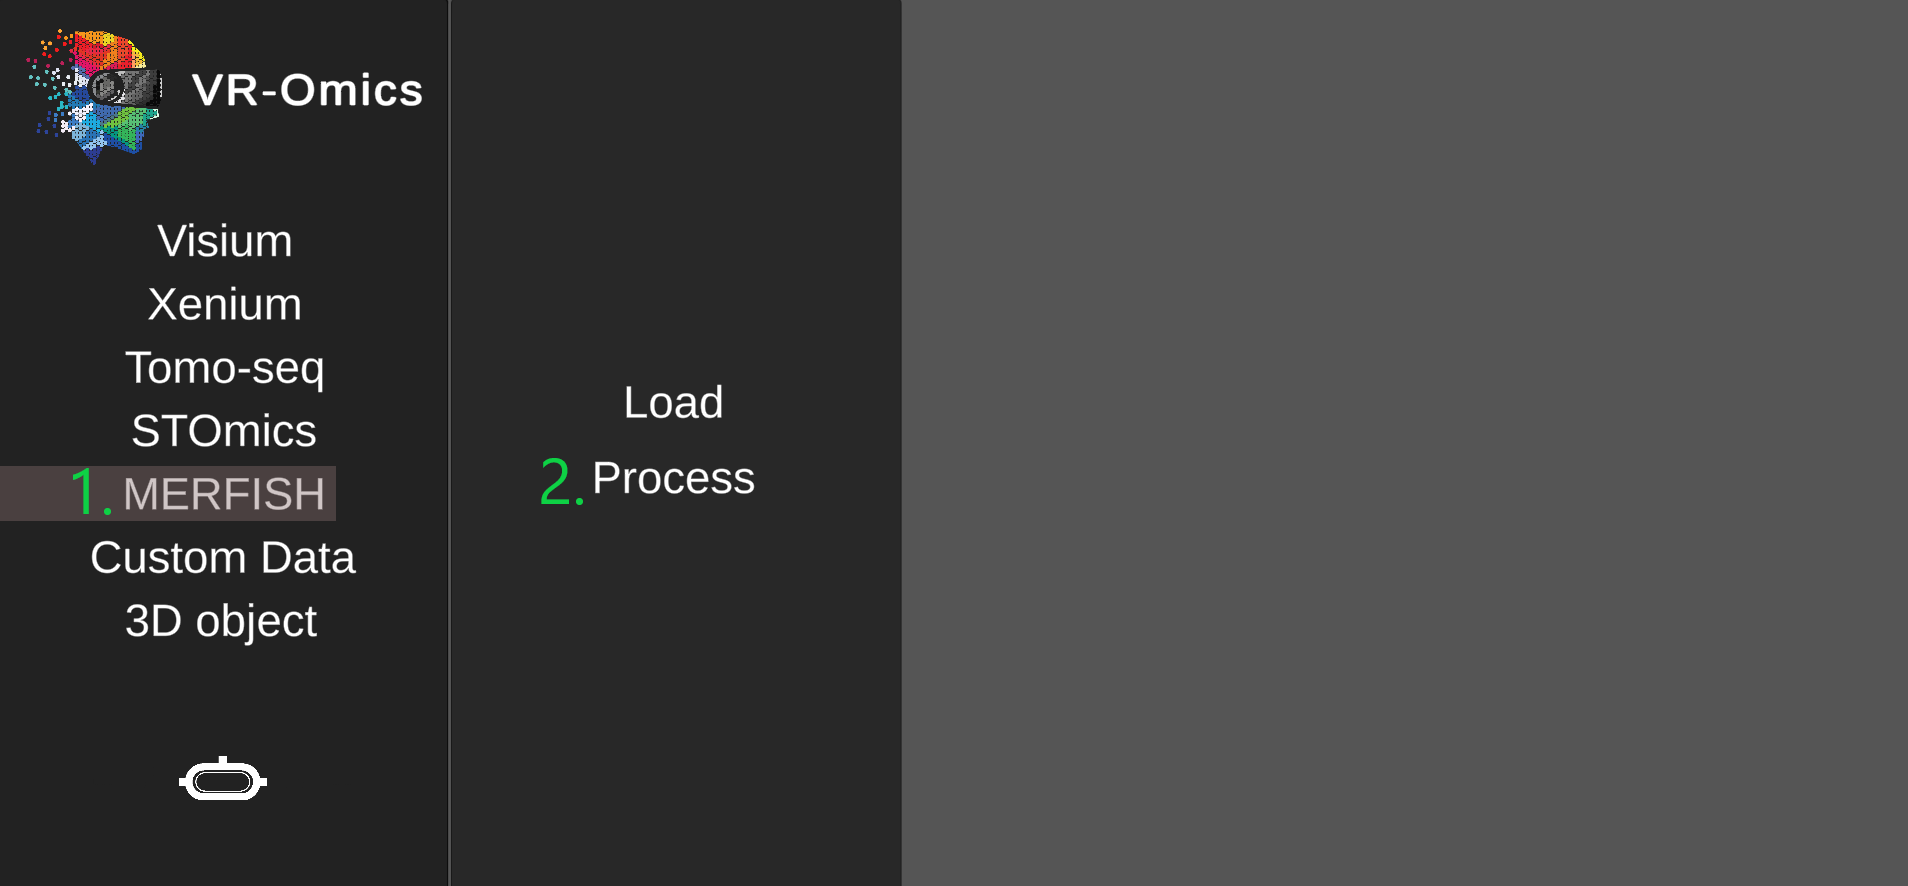
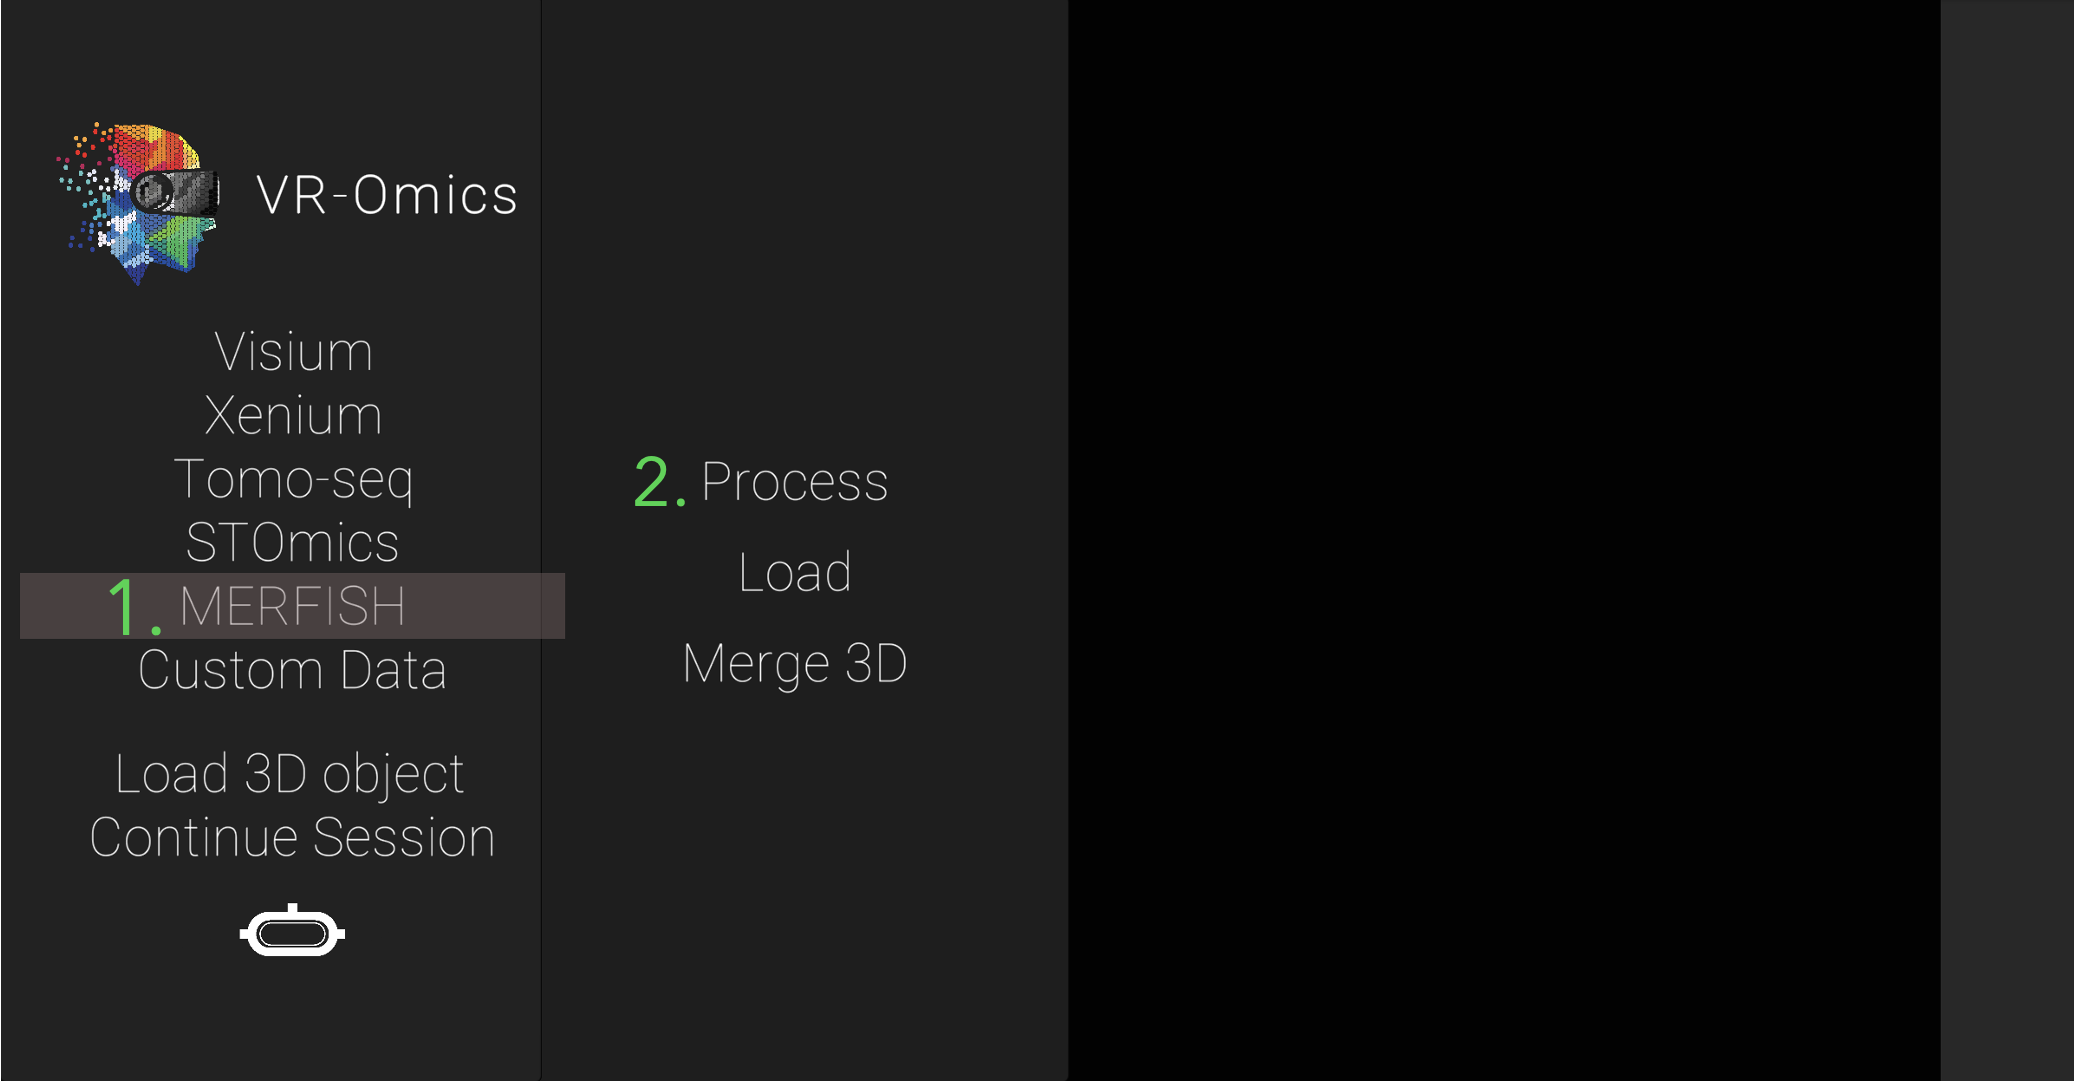
Concat/merge3D updated
Documentation descriptions about concat and merge 3D, and all new interfaces in Visium and Merfish steps are updated

diff --git a/pages/vromics.html b/pages/vromics.html
@@ -400,100 +400,7 @@
                                 </tbody>
                             </table> 
                         </details>
-                        <!-- Join/Concat data in 2D space -->
-                        <details class="details sub"><summary><strong>Concatenate multiple Visium slides in 2D space</strong></summary><a id="visium_load_concat"></a>
-                            <h2></h2>
-                            <table class="table table-striped">
-                                <tbody>
-                                    <tr>
-                                        <th scope="row">1</th>
-                                        <td>Select the Concat menu</td>
-                                        <td>
-                                            <ol>
-                                                <li>From the main menu select <span class="badge badge-pill badge-info">Visium</span></li>
-                                                <li>Select <span class="badge badge-pill badge-info">Concat</span></li> 
-                                            </ol>
-                                        </td>
-                                        <td>
-                                            <figure>
-                                                <img src="../assets/imgs/Documentation/Visium_and_C18/vis_options_concat.png" style="max-width: 100%;">
-                                            </figure>  
-                                        </td>
-                                    </tr>
-                                    <tr>
-                                        <th scope="row">2</th>
-                                        <td>Select the Visium samples to merge</td>
-                                        <td>
-                                            <ol>
-                                                <li>Click <span class="badge badge-pill badge-info">Browse</span></li>
-                                                <li>From the Explorer find the main folders of the datasets to merge.</li> 
-                                                <li>Click <span class="badge badge-pill badge-info">Load</span> to load the samples.</li>
-                                            </ol>
-                                        </td>
-                                        <td>
-                                            <figure>
-                                                <img src="../assets/imgs/Documentation/Visium_and_C18/vis_concat_select.png" style="max-width: 100%;">
-                                            </figure>  
-                                        </td>
-                                    </tr>
-                                    <tr>
-                                        <th scope="row">3</th>
-                                        <td>Check the selected samples</td>
-                                        <td>
-                                            <ol>
-                                                <li>The selected samples will be shown</li>
-                                                <li>Expand the tissue image or delete a sample using the <span class="badge badge-pill badge-info">🗑</span> button.</li> 
-                                                <li>Click <span class="badge badge-pill badge-info">Concat</span> to confirm the selection.</li>
-                                            </ol>
-                                        </td>
-                                        <td>
-                                            <figure>
-                                                <img src="../assets/imgs/Documentation/Visium_and_C18/vis_concat_containers.png" style="max-width: 100%;">
-                                                <figcaption>The order of the samples is not important for the following steps.</figcaption>
-                                            </figure>  
-                                        </td>
-                                    </tr>
-                                    <tr>
-                                        <th scope="row">3</th>
-                                        <td>Arrange the slides</td>
-                                        <td>
-                                            <ol>
-                                                <li>Arrange the slides by using the mouse.</li>
-                                                <li>Drag a sample by using left click to move the sample into position</li>
-                                                <li>Hold down the left mouse button and click the right mouse button once to rotate a sample by 90 degrees.</li>
-                                                <li>Click <span class="badge badge-pill badge-info">Concat</span> to confirm.</li>
-                                            </ol>
-                                        </td>
-                                        <td>
-                                            <figure>
-                                                <img src="../assets/imgs/Documentation/Visium_and_C18/vis_concat_arranged.png" style="max-width: 100%;">
-                                                <figcaption>Ensure that no samples overlap with each other.</figcaption>
-                                            </figure>  
-                                        </td>
-                                    </tr>
-                                    <tr>
-                                        <th scope="row">4</th>
-                                        <td>Processing the joint dataset</td>
-                                        <td>
-                                            <ol>
-                                                <li>(Optional) Enter filter parameters to filter the joint dataset or leave fields blank.</li>
-                                                <li>(Optional) Select T-SNE and UMAP analysis</li>
-                                                <li>(Optional) Select SVG analysis to run spatial analysis.</li>
-                                                <li>Click <span class="badge badge-pill badge-info">Process</span> to confirm.</li>
-                                            </ol>
-                                        </td>
-                                        <td>
-                                            <figure>
-                                                <img src="../assets/imgs/Documentation/Visium_and_C18/vis_concat_filter.png" style="max-width: 100%;">
-                                                <figcaption>Click here for more information on <a href="#filter">filter parameters.</a> Selecting T-SNE and UMAP as well as SVG analysis increases processing time of the sample.</figcaption>
-                                            </figure>  
-                                        </td>
-                                    </tr>
-                                    
-                                </tbody>
-                            </table>
-                            <br>
-                        </details>
+                        
                         <!-- Load multiple slides in 3D space -->
                         <details class="details sub"><summary><strong>Loading multiple Visium slides in 3D</strong></summary><a id="visium_load_multiple"></a>
                             <div class="alert alert-primary alert-dismissible fade show" role="alert">
@@ -675,6 +582,102 @@
                             </tbody>
                         </table>
                     </details>
+
+                    <!-- Concat section collapsible-->
+                    <details class="details sub"><summary><strong>Concat</strong></summary><a id="visium_concat"></a>
+                        <table class="table table-striped">
+                            <tbody>
+                                <tr>
+                                    <th scope="row">1</th>
+                                    <td>Navigate to the Visium concat menu</td>
+                                    <td>
+                                        <ol>
+                                            <li>From the main menu select <span class="badge badge-pill badge-info">Visium</span></li>
+                                            <li>Select <span class="badge badge-pill badge-info">Concat</span></li> 
+                                        </ol>
+                                    </td>
+                                    <td>
+                                        <div style="width: 600px;">
+                                            <figure>
+                                                <img src="../assets/imgs/Documentation/Visium_and_C18/Vis_options_concat.png" style="max-width: 100%;">
+                                            </figure> 
+                                        </div> 
+                                    </td>
+                                </tr>
+                                <tr>
+                                    <th scope="row">2</th>
+                                    <td>Select datasets to be aligned</td>
+                                    <td>
+                                        <li>Click <span class="badge badge-pill badge-info">Browse</span> and select multiple datasets (folder) from your local machine.</li>
+                                    </td>
+                                    <td>
+                                        <div style="width: 600px;">
+                                            <figure>
+                                                <img src="../assets/imgs/Documentation/Visium_and_C18/Vis_concat_browse.png" style="max-width: 100%;">
+                                            </figure> 
+                                        </div> 
+                                    </td>
+                                </tr>
+                                
+                                <th scope="row">3</th>
+                                <td>Check the selected samples</td>
+                                <td>
+                                    <ol>
+                                        <li>The selected samples will be shown</li>
+                                        <li>Expand the tissue image or delete a sample using the <span class="badge badge-pill badge-info">🗑</span> button.</li> 
+                                        <li>Click <span class="badge badge-pill badge-info">Concat</span> to confirm the selection.</li>
+                                    </ol>
+                                </td>
+                                <td>
+                                    <figure>
+                                        <img src="../assets/imgs/Documentation/Visium_and_C18/vis_concat_containers.png" style="max-width: 100%;">
+                                        <figcaption>The order of the samples is not important for the following steps.</figcaption>
+                                    </figure>  
+                                </td>
+                            </tr>
+                            <tr>
+                                <th scope="row">4</th>
+                                <td>Arrange the slides</td>
+                                <td>
+                                    <ol>
+                                        <li>Arrange the slides by using the mouse.</li>
+                                        <li>Drag a sample by using left click to move the sample into position</li>
+                                        <li>Hold down the left mouse button and click the right mouse button once to rotate a sample by 90 degrees.</li>
+                                        <li>Click <span class="badge badge-pill badge-info">Concat</span> to confirm.</li>
+                                    </ol>
+                                </td>
+                                <td>
+                                    <figure>
+                                        <img src="../assets/imgs/Documentation/Visium_and_C18/vis_concat_arranged.png" style="max-width: 100%;">
+                                        <figcaption>Ensure that no samples overlap with each other.</figcaption>
+                                    </figure>  
+                                </td>
+                            </tr>
+                            <tr>
+                                <th scope="row">5</th>
+                                <td>Processing the joint dataset</td>
+                                <td>
+                                    <ol>
+                                        <li>(Optional) Enter filter parameters to filter the joint dataset or leave fields blank.</li>
+                                        <li>(Optional) Select T-SNE and UMAP analysis</li>
+                                        <li>(Optional) Select SVG analysis to run spatial analysis.</li>
+                                        <li>Click <span class="badge badge-pill badge-info">Process</span> to confirm.</li>
+                                    </ol>
+                                </td>
+                                <td>
+                                    <figure>
+                                        <img src="../assets/imgs/Documentation/Visium_and_C18/vis_concat_filter.png" style="max-width: 100%;">
+                                        <figcaption>Click here for more information on <a href="#filter">filter parameters.</a> Selecting T-SNE and UMAP as well as SVG analysis increases processing time of the sample.</figcaption>
+                                    </figure>  
+                                </td>
+                            </tr>
+
+                            </tbody>
+                        </table>
+                    </details>
+
+
+
                     <!-- Demo section collapsible -->
                     <details class="details sub"><summary><strong>Demo</strong></summary><a id="visium_demo"></a>
                         <table class="table table-striped">
@@ -1270,6 +1273,54 @@
                             </tbody>
                         </table>
                     </details>
+
+                    <details class="details sub"><summary><strong>Merge 3D</strong></summary><a id="merfish_load"></a>
+                        <table class="table table-striped">
+                            <tbody>
+                                <tr>
+                                    <th scope="row">1</th>
+                                    <td>Navigate to the MERFISH Merge 3D menu</td>
+                                    <td>
+                                        <ol>
+                                            <li>From the main menu select <span class="badge badge-pill badge-info">MERFISH</span></li>
+                                            <li>Select <span class="badge badge-pill badge-info">Merge 3D</span></li> 
+                                        </ol>
+                                    </td>
+                                    <td>
+                                        <div style="width: 600px;">
+                                            <figure>
+                                                <img src="../assets/imgs/Documentation/Merfish/Merfish_options_Merge3D.png" style="max-width: 100%;">
+                                            </figure> 
+                                        </div> 
+                                    </td>
+                                </tr>
+                                <tr>
+                                    <th scope="row">2</th>
+                                    <td>Select the MERFISH files</td>
+                                    <td>
+                                        <ol>
+                                            <li>Select <span class="badge badge-pill badge-info">Browse</span></li>
+                                            <li>Select the MERFISH sample folder processed using the VR-Omics AW</li>
+                                            <li>Select <span class="badge badge-pill badge-info">Visualise</span> to confirm.</li>
+                                        </ol>
+                                </td>
+                                    <td>
+                                        <div style="width: 600px;">
+                                            <figure>
+                                                <img src="../assets/imgs/Documentation/Merfish/merfish_load.png" style="max-width: 100%;">
+                                            </figure> 
+                                            <p>The processed data can be found in the VR-Omics data folder. To Visualise the data select the complete folder as shown in the figure.</p>
+                                            <figure>
+                                                <img src="../assets/imgs/Documentation/VR_Omics_datapaths.png" style="max-width: 100%;">
+                                            </figure>   
+                                        </div> 
+                                        <p>The MERFISH data used was provided by <a href="vizgen.com">Vizgen</a> where there data is publicly available under their <a href="vizgen.com/data-release-program/">data release program.</a></p>
+                                    </td>
+                                </tr>
+                            </tbody>
+                        </table>
+                    </details>
+
                 </details>            
                 <!-- Custom -->
                 <details  class="details"><summary> <span style="font-size: 18px">Custom data</span></summary>
